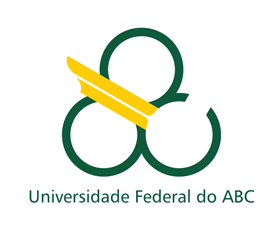
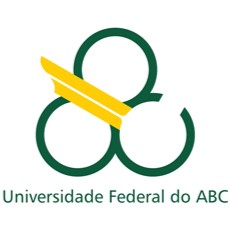
style: conclusão da responsividade pós animação

Changed region(s): [[0.1522, 0.1217, 0.8522, 0.7913], [0.0, 0.8217, 1.0, 0.8826]]

diff --git a/styles.css b/styles.css
@@ -22,9 +22,11 @@ body {
   color: #f9f9f9;
   min-height: 100svh;
   min-width: 98svw;
-  background-image: linear-gradient(to right,
-      var(--cor1-gradient),
-      var(--cor2-gradient));
+  background-image: linear-gradient(
+    to right,
+    var(--cor1-gradient),
+    var(--cor2-gradient)
+  );
 }
 
 a {
@@ -81,9 +83,11 @@ img {
   align-items: center;
   border-bottom: solid 4px var(--cor-principal);
   margin-bottom: 15px;
-  background-image: linear-gradient(to right,
-      var(--cor1-gradient),
-      var(--cor2-gradient));
+  background-image: linear-gradient(
+    to right,
+    var(--cor1-gradient),
+    var(--cor2-gradient)
+  );
   width: 100%;
   justify-self: center;
   position: sticky;
@@ -284,6 +288,7 @@ img {
   gap: 120px;
   max-width: 950px;
   grid-template-columns: repeat(auto-fit, minmax(110px, 110px));
+  justify-self: center;
 }
 
 .about-me__degrees--images img {
@@ -298,6 +303,11 @@ img {
   transition: transform ease 200ms;
   min-width: 200px;
   justify-items: center;
+}
+
+.about-me__degrees--images-ufabc {
+  width: 150px;
+  height: 130px;
 }
 
 .about-me__tecnologies {
@@ -374,7 +384,7 @@ figcaption {
   }
 
   .about-me__tecnologies--images figure {
-    padding: 10px;
+    padding: 15px;
     max-width: 100px;
   }
 
@@ -391,6 +401,7 @@ figcaption {
   .about-me__degrees--images figure {
     padding: 5px;
     max-width: 30px;
+    min-width: fit-content;
   }
 }
 
@@ -424,7 +435,7 @@ figcaption {
   align-items: center;
   justify-content: center;
   border: 1px solid #8d0000;
-  width: 80%;
+  width: 1050px;
   height: 500px;
   align-self: center;
   gap: 10px;
@@ -441,7 +452,7 @@ figcaption {
 
 .projects__project.closed {
   /* Quando está fechado */
-  width: 50%;
+  width: 655px;
   padding: 15px;
   min-width: min-content;
 }
@@ -472,15 +483,6 @@ figcaption {
   position: absolute;
   transition: left ease 0.5s;
   left: 20px;
-}
-
-.projects__iframe-project {
-  width: 570px;
-  height: 407px;
-  margin: 10px;
-  border: none;
-  flex-shrink: 0;
-  /* Nao deixa o iframe ser empurrado e diminuido*/
 }
 
 .projects__description {
@@ -551,36 +553,31 @@ figcaption {
 }
 
 .projects__project--click-description {
-  align-self: flex-end;
-  position: absolute;
-  color: #f9f9f93a;
   opacity: 0;
 }
 
 .projects__project.closed .projects__project--click-description {
   opacity: 1;
+  align-self: flex-end;
+  position: absolute;
+  color: #f9f9f93a;
 }
 
 @media (max-width: 1100px) {
-  .projects__image-project {
-    width: 45vw;
-  }
-}
-
-@media (max-width: 1000px) {
   .projects__project {
     flex-direction: column;
-    max-height: fit-content;
+    height: fit-content;
+    min-width: fit-content;
     max-width: fit-content;
-    min-width: min-content;
-    transition: none;
-    min-height: fit-content;
+  }
+
+  .projects__project.closed {
+    height: fit-content;
   }
 
   .projects__description {
     position: relative;
     left: 0;
-    z-index: -1;
   }
 
   .projects__description.hidden {
@@ -595,19 +592,17 @@ figcaption {
     z-index: 1;
   }
 
-  .projects__project--click-description {
+  .projects__project.closed .projects__project--click-description {
     position: relative;
     align-self: center;
   }
 
-  .projects__description--title,
-  .projects__description--title.reverse {
+  .projects__description--title {
     align-self: center;
     text-align: center;
   }
 
-  .projects__description,
-  .projects__description.reverse {
+  .projects__description {
     max-width: fit-content;
     order: 0;
   }
@@ -625,25 +620,11 @@ figcaption {
   .projects__container {
     gap: 15px;
   }
-
-  .projects__iframe-project {
-    width: 400px;
-    height: 221px;
-  }
 }
 
 @media (max-width: 530px) {
   .projects__image-project {
     width: 75vw;
-  }
-
-  .projects__project.active {
-    padding: 19px 3px;
-  }
-
-  .projects__iframe-project {
-    width: 75vw;
-    height: 39vh;
   }
 
   .projects__project--click-description {
@@ -653,7 +634,6 @@ figcaption {
 }
 
 @media (max-width: 400px) {
-
   .projects__description--title,
   .projects__description--title.reverse {
     font-size: 1.5rem;
@@ -669,11 +649,6 @@ figcaption {
 
   .projects__buttons--button {
     font-size: 0.7rem;
-  }
-
-  .projects__iframe-project {
-    width: 77vw;
-    height: 23vh;
   }
 }
 

diff --git a/index.html b/index.html
@@ -113,7 +113,7 @@
               <figcaption>SENAI - Desenvolvimento de Sistemas <span class="text-inprogress">Em Andamento</span></figcaption>
             </figure>
             <figure>
-              <img src="img/UFABC.jpg" alt="Logo UFABC" width="150px" />
+              <img src="img/UFABC.jpg" alt="Logo UFABC" class="about-me__degrees--images-ufabc" />
               <figcaption>UFABC - Bacharelado em Ciência e Tecnologia <span class="text-inprogress">Em Andamento</span></figcaption>
             </figure>
         
